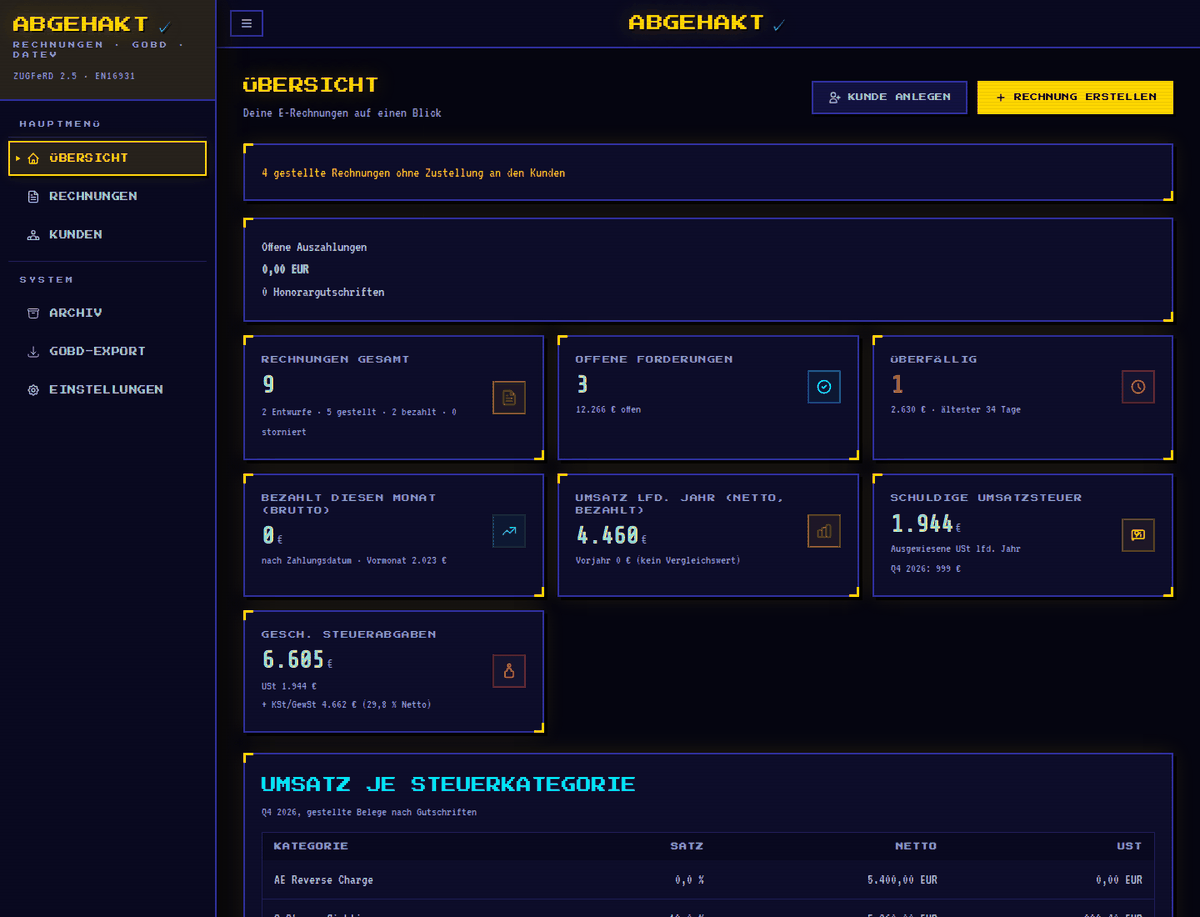
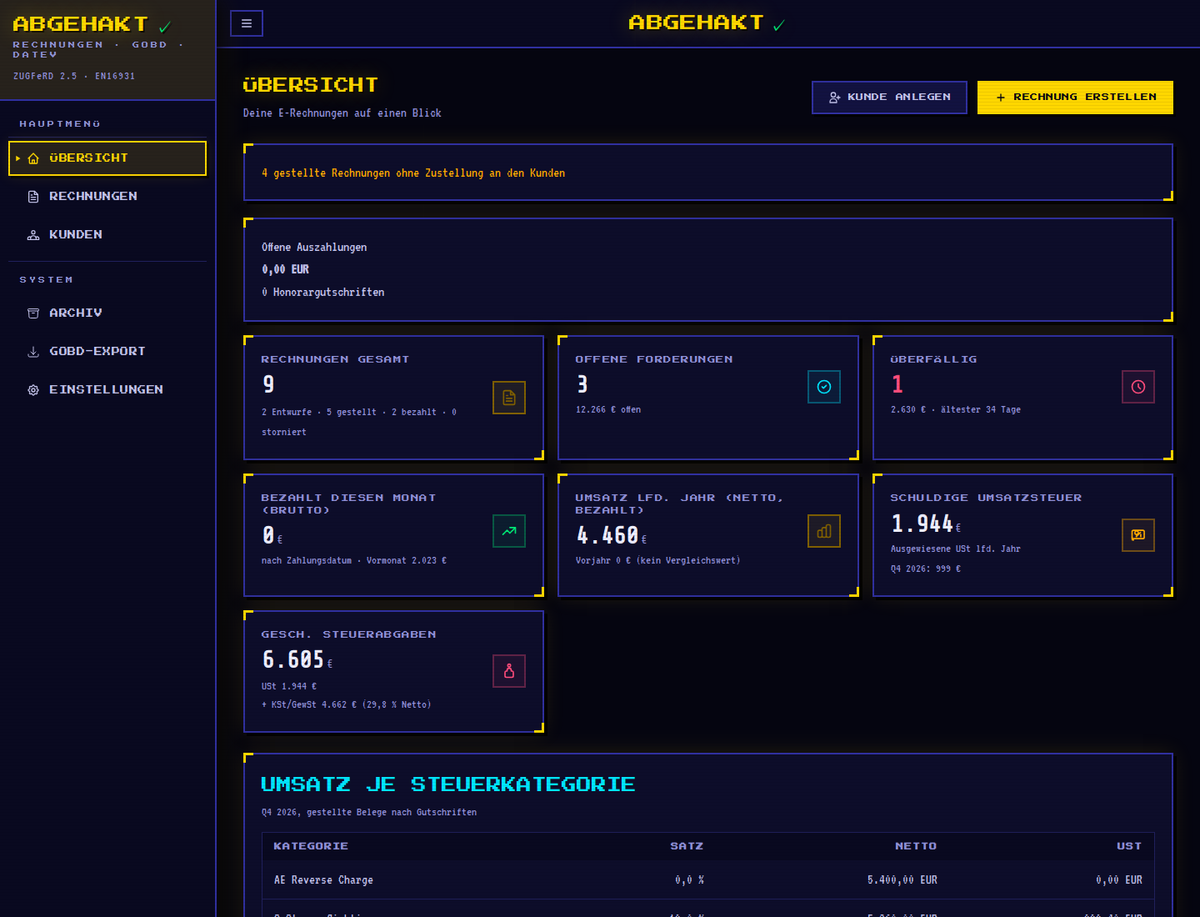
Doku: Bilder und Text nach Runde 2 des Designs Terminal

diff --git a/docs/ANWENDUNG.md b/docs/ANWENDUNG.md
@@ -1053,9 +1053,13 @@ nicht erhalten.
 
 **Abgehakt** ist das helle Formular-Design, **Pixel** das verspielte Retro-Design.
 **Terminal** ist dunkel, mit gedämpften Pastellfarben und hohem Kontrast, gedacht für
-langes Arbeiten. Keine Schrift ist dort kleiner als 15 px, auch nicht in Hinweisen und
-Codeblöcken. PDF und E-Rechnung sehen in jedem
-Design gleich aus. Die Designwahl verändert nur die Oberfläche.
+langes Arbeiten. Oben liegt eine Stahlleiste mit der Wortmarke, Karten und Seitenleiste
+wirken wie Glas. Zustände stehen als Form und Wort in eigener Farbe: ● bezahlt,
+▲ gestellt oder offen, ■ überfällig, ◆ Entwurf, ○ storniert. Keine Schrift ist dort
+kleiner als 15 px, auch nicht in Hinweisen und Codeblöcken.
+
+PDF und E-Rechnung sehen in jedem Design gleich aus. Die Designwahl verändert nur die
+Oberfläche.
 
 ![Übersicht im hellen Design Abgehakt mit Forderungen und Kennzahlen](bilder/abgehakt-uebersicht.png)
 
